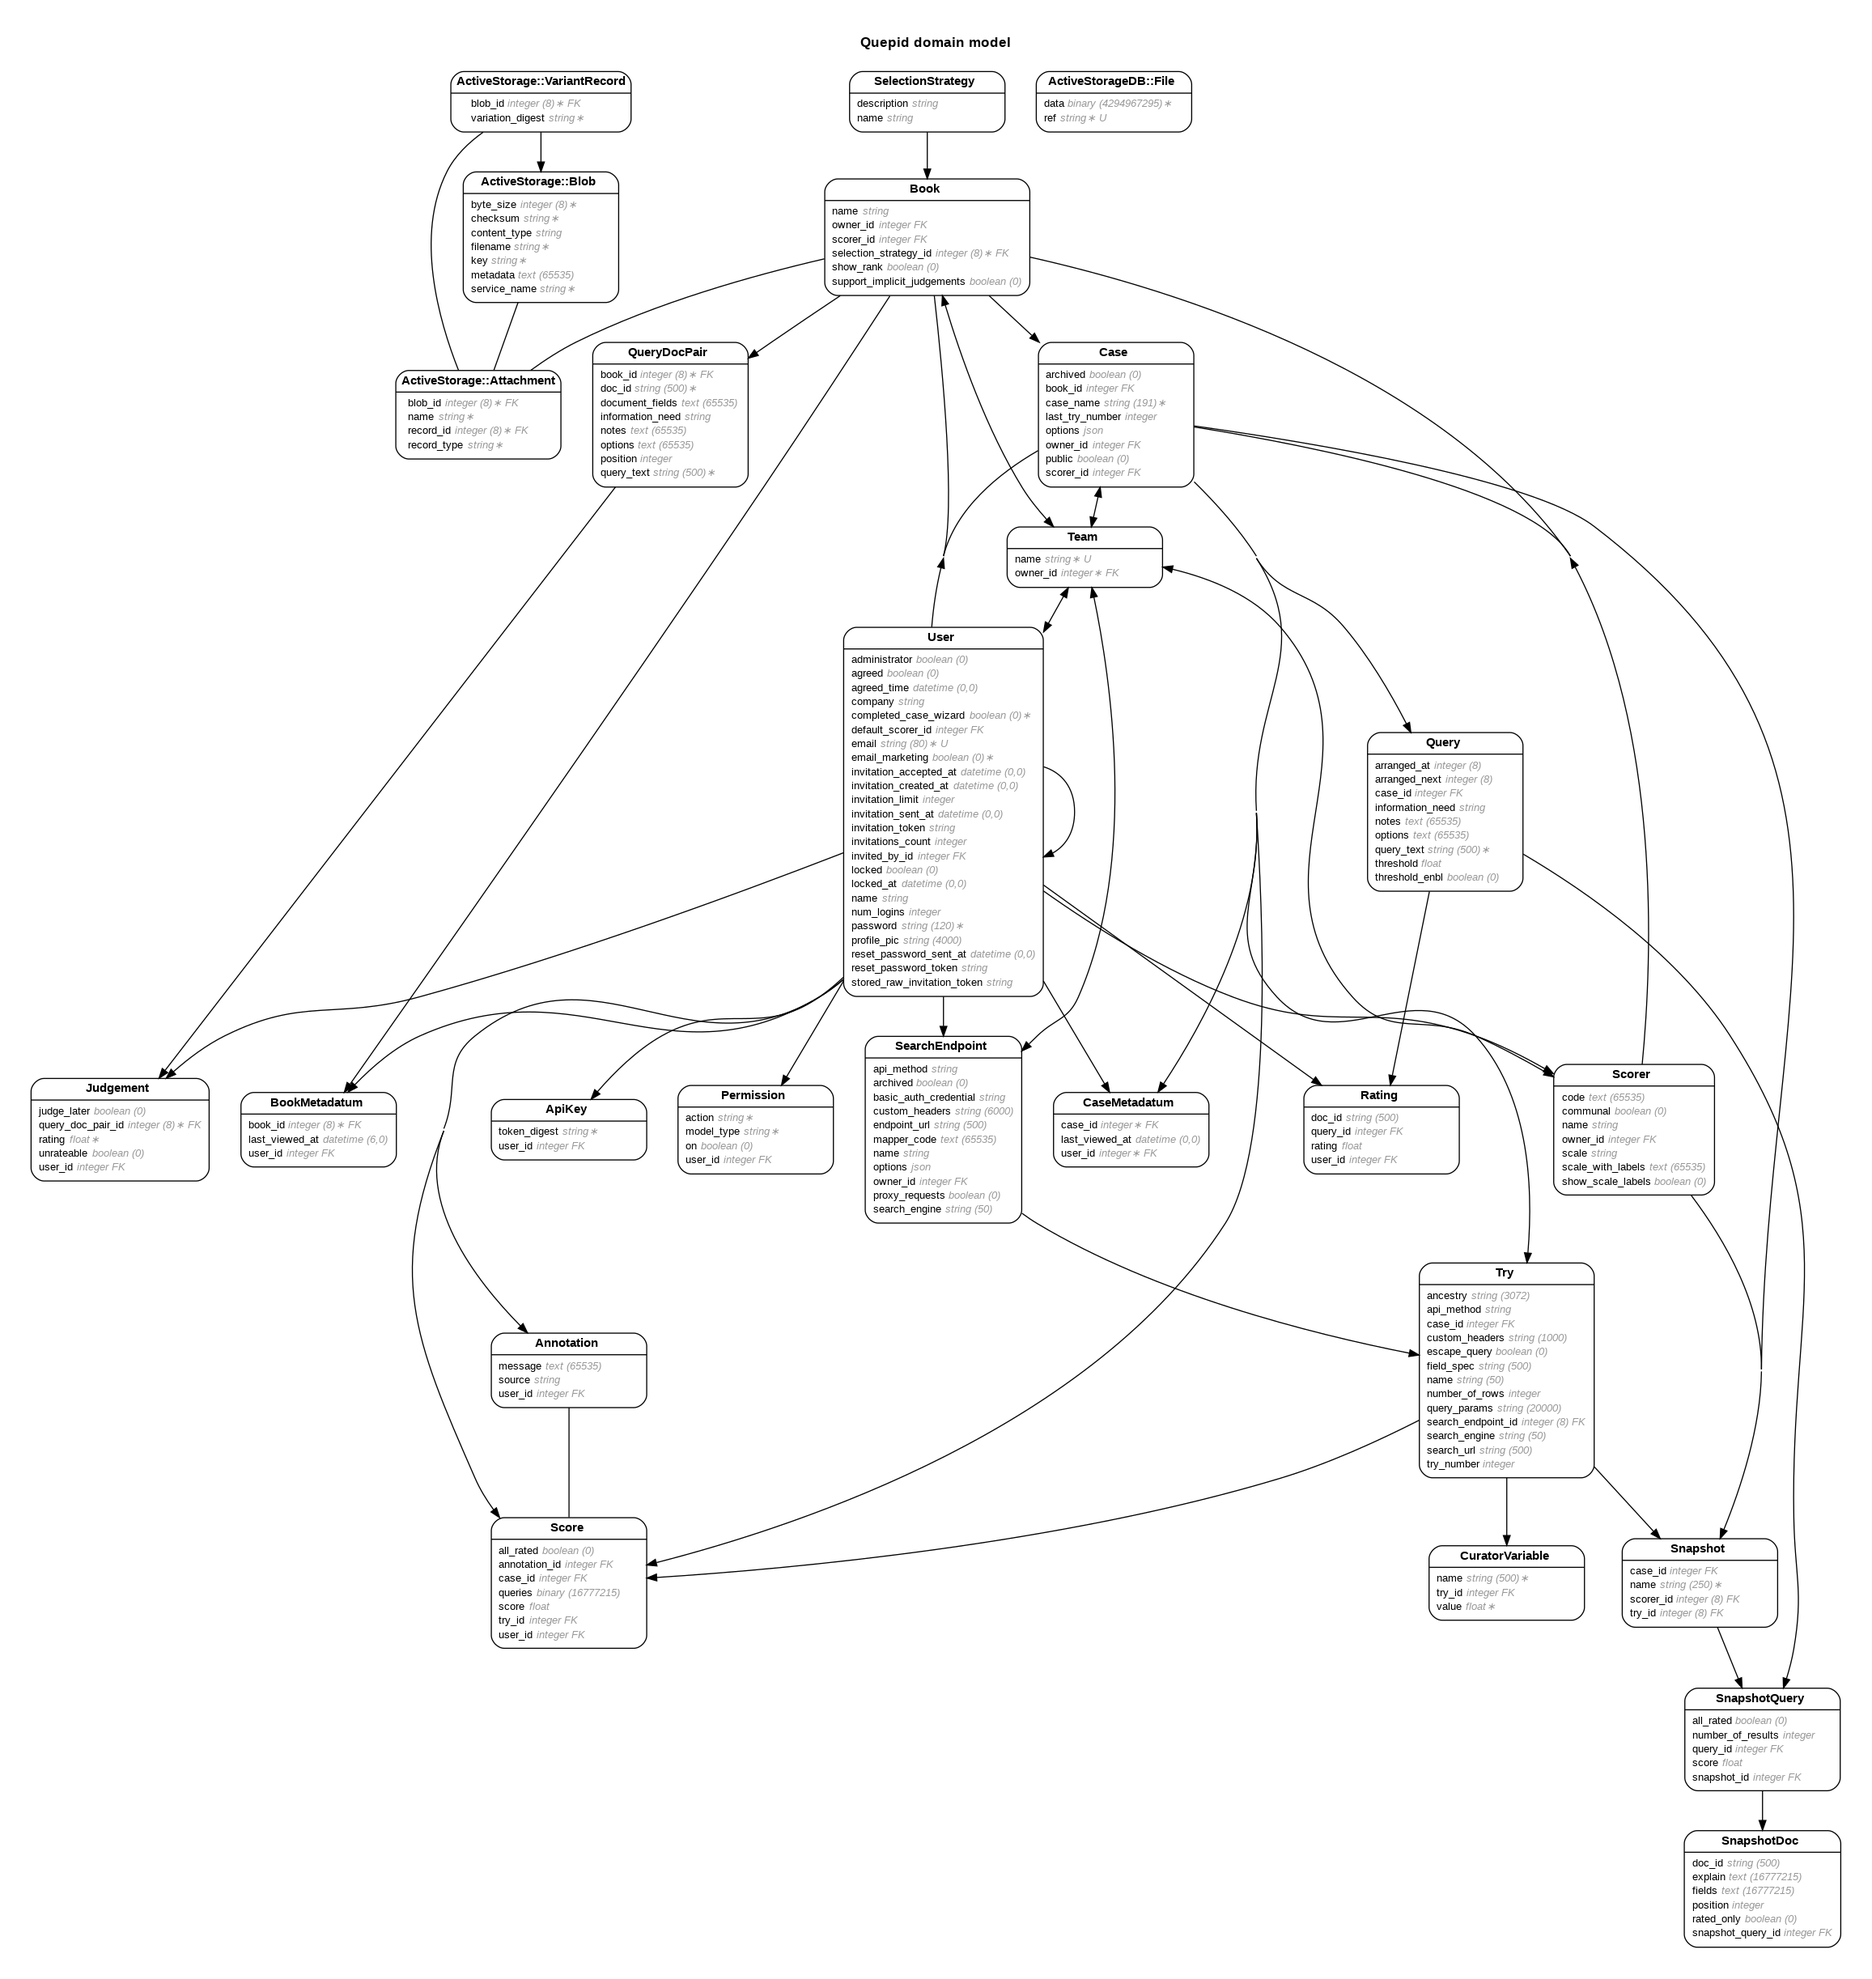
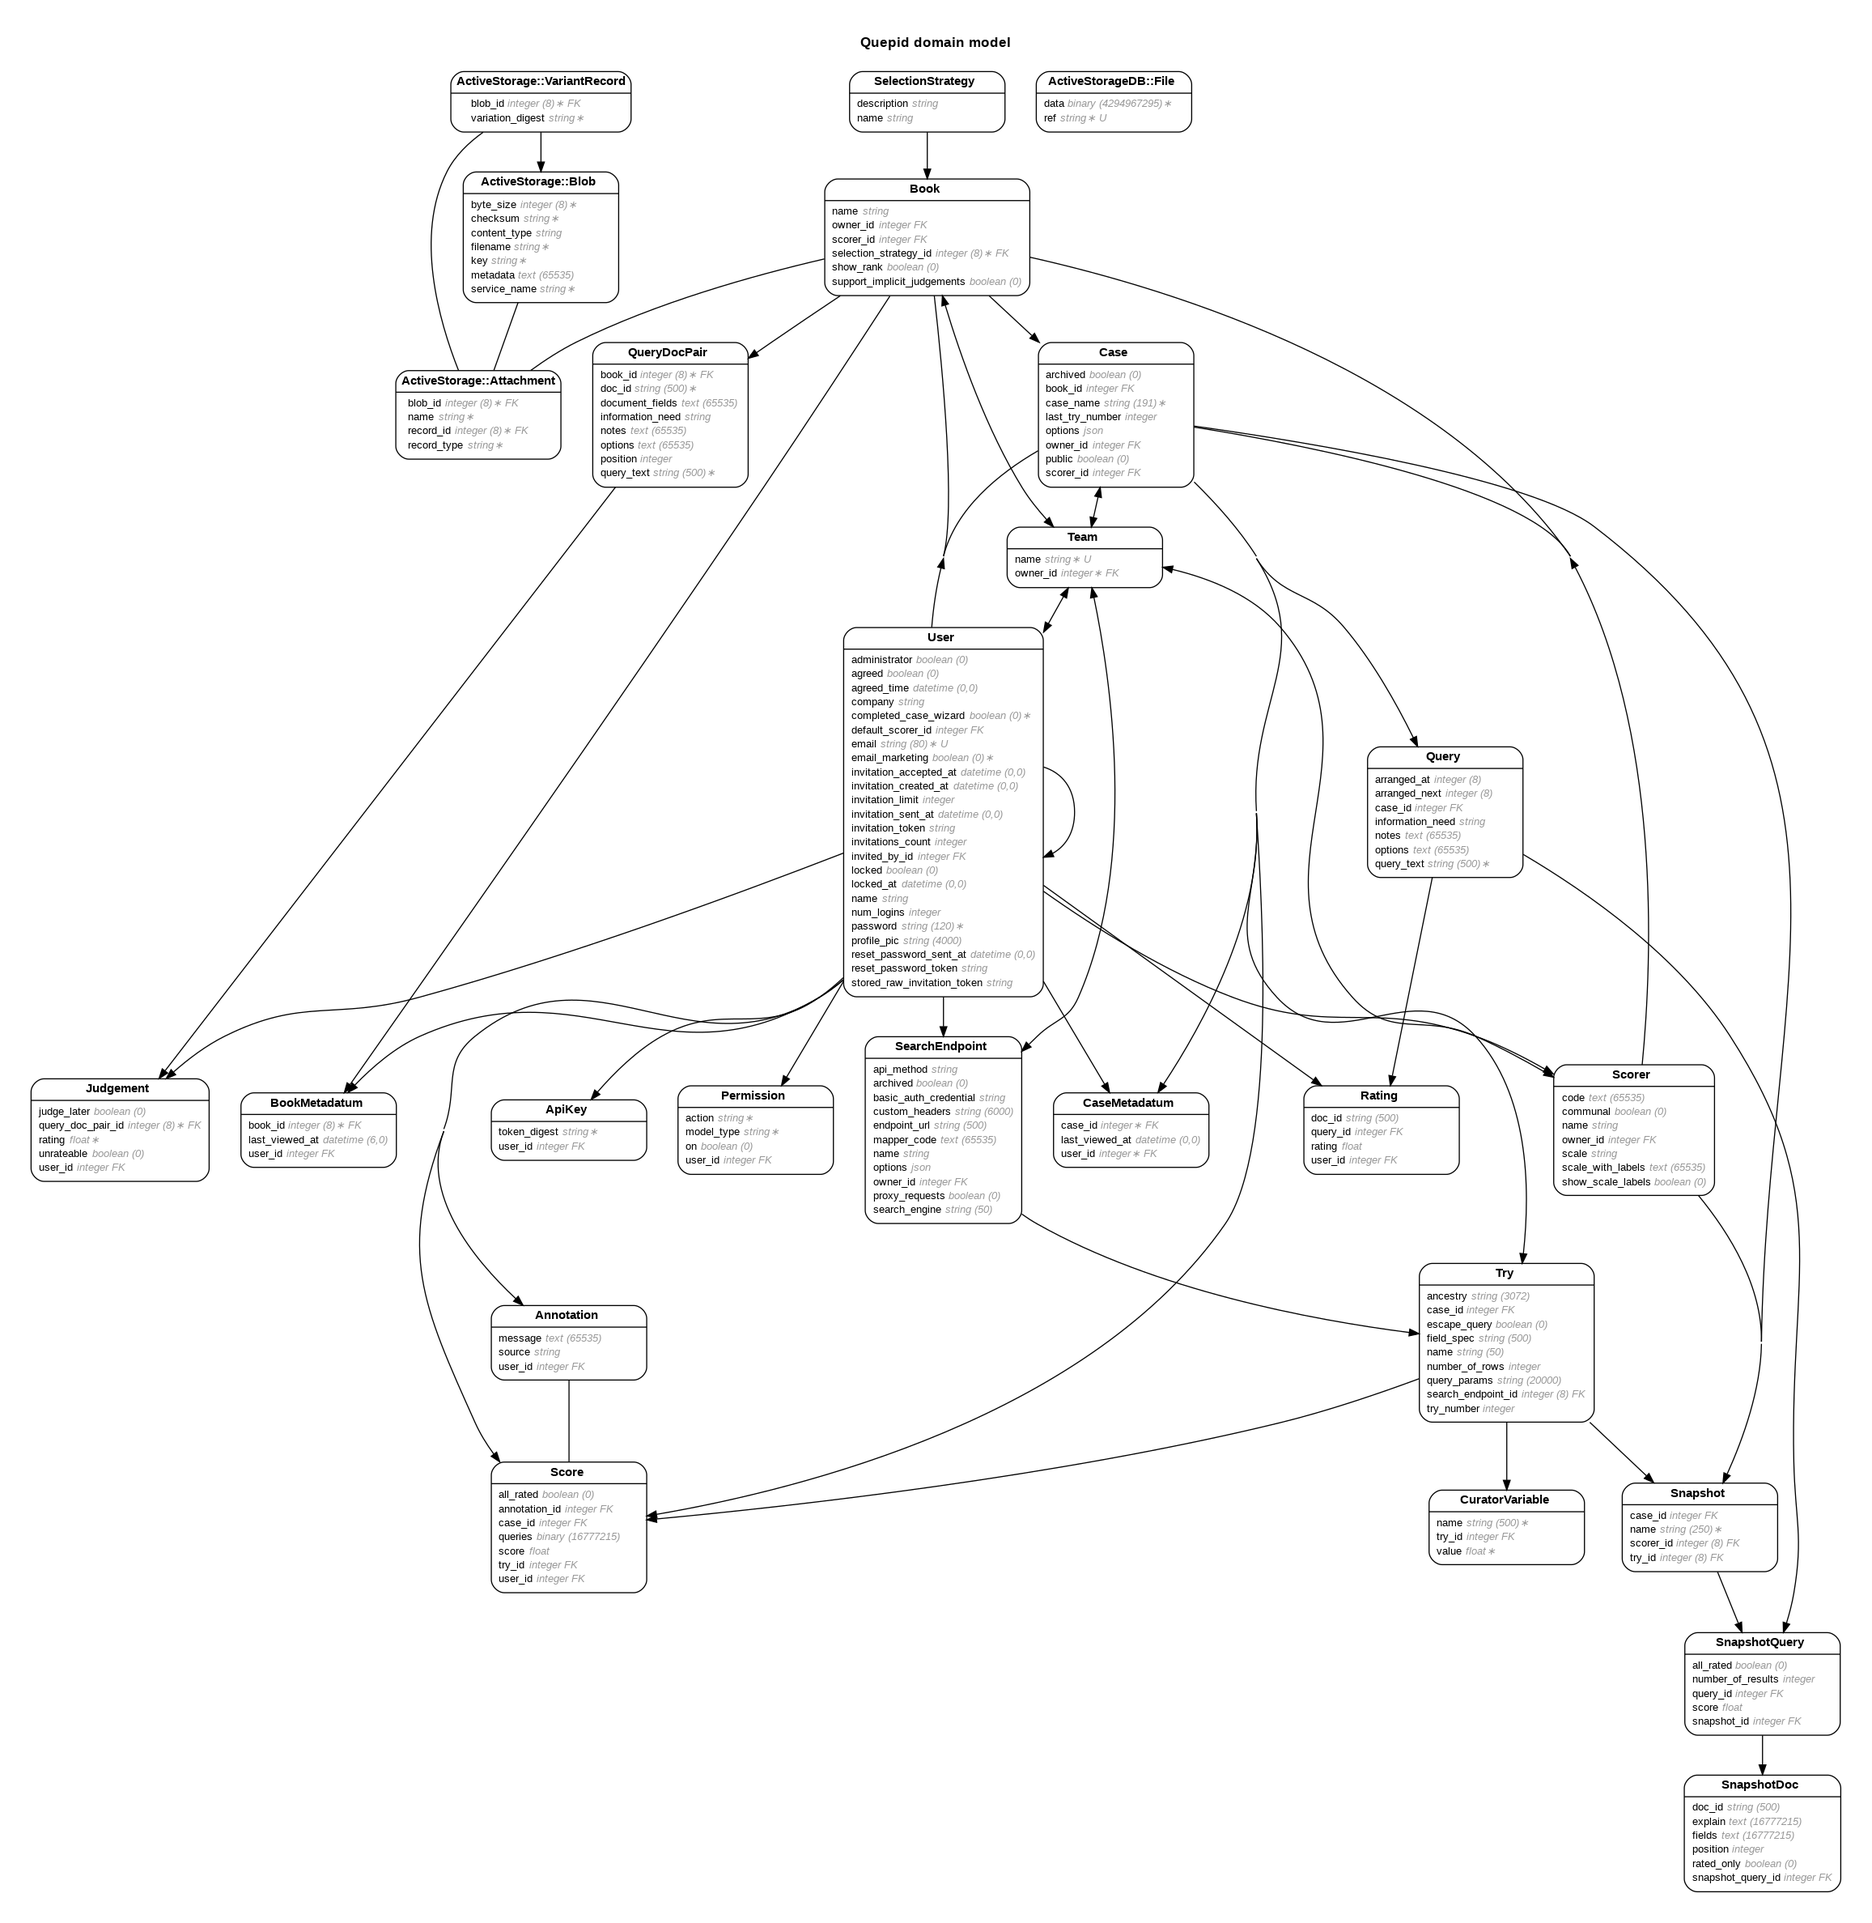
Final clean up from introducing the search_endpoint concept

diff --git a/db/schema.rb b/db/schema.rb
@@ -10,7 +10,7 @@
 #
 # It's strongly recommended that you check this file into your version control system.
 
-ActiveRecord::Schema[7.1].define(version: 2024_01_21_134401) do
+ActiveRecord::Schema[7.1].define(version: 2024_01_22_154641) do
   create_table "active_storage_attachments", charset: "utf8mb4", collation: "utf8mb4_bin", force: :cascade do |t|
     t.string "name", null: false
     t.string "record_type", null: false
@@ -302,16 +302,12 @@ ActiveRecord::Schema[7.1].define(version: 2024_01_21_134401) do
     t.string "query_params", limit: 20000
     t.integer "case_id"
     t.string "field_spec", limit: 500
-    t.string "search_url", limit: 500
     t.string "name", limit: 50
-    t.string "search_engine", limit: 50, default: "solr"
     t.boolean "escape_query", default: true
     t.integer "number_of_rows", default: 10
     t.datetime "created_at", precision: nil, null: false
     t.datetime "updated_at", precision: nil, null: false
     t.string "ancestry", limit: 3072
-    t.string "api_method"
-    t.string "custom_headers", limit: 1000
     t.bigint "search_endpoint_id"
     t.index ["case_id"], name: "case_id"
     t.index ["search_endpoint_id"], name: "index_tries_on_search_endpoint_id"

diff --git a/app/models/try.rb b/app/models/try.rb
@@ -6,15 +6,11 @@
 #
 #  id                 :integer          not null, primary key
 #  ancestry           :string(3072)
-#  api_method         :string(255)
-#  custom_headers     :string(1000)
 #  escape_query       :boolean          default(TRUE)
 #  field_spec         :string(500)
 #  name               :string(50)
 #  number_of_rows     :integer          default(10)
 #  query_params       :string(20000)
-#  search_engine      :string(50)       default("solr")
-#  search_url         :string(500)
 #  try_number         :integer
 #  created_at         :datetime         not null
 #  updated_at         :datetime         not null

diff --git a/test/models/try_test.rb b/test/models/try_test.rb
@@ -6,15 +6,11 @@
 #
 #  id                 :integer          not null, primary key
 #  ancestry           :string(3072)
-#  api_method         :string(255)
-#  custom_headers     :string(1000)
 #  escape_query       :boolean          default(TRUE)
 #  field_spec         :string(500)
 #  name               :string(50)
 #  number_of_rows     :integer          default(10)
 #  query_params       :string(20000)
-#  search_engine      :string(50)       default("solr")
-#  search_url         :string(500)
 #  try_number         :integer
 #  created_at         :datetime         not null
 #  updated_at         :datetime         not null

diff --git a/db/migrate/20240122154641_drop_extra_try_fields.rb b/db/migrate/20240122154641_drop_extra_try_fields.rb
@@ -1,0 +1,11 @@
+class DropExtraTryFields < ActiveRecord::Migration[7.1]
+  # we left the fields on Try when we introduced Search Endpoints
+  # in case we needed to rollback.  However, we can now do the 
+  # cleanup!
+  def change
+    remove_column :tries, :api_method
+    remove_column :tries, :custom_headers
+    remove_column :tries, :search_engine
+    remove_column :tries, :search_url
+  end
+end

diff --git a/README.md b/README.md
@@ -1,3 +1,4 @@
+
 # Quepid
 
 [![License](https://img.shields.io/badge/License-Apache%202.0-blue.svg)](https://opensource.org/licenses/Apache-2.0)
